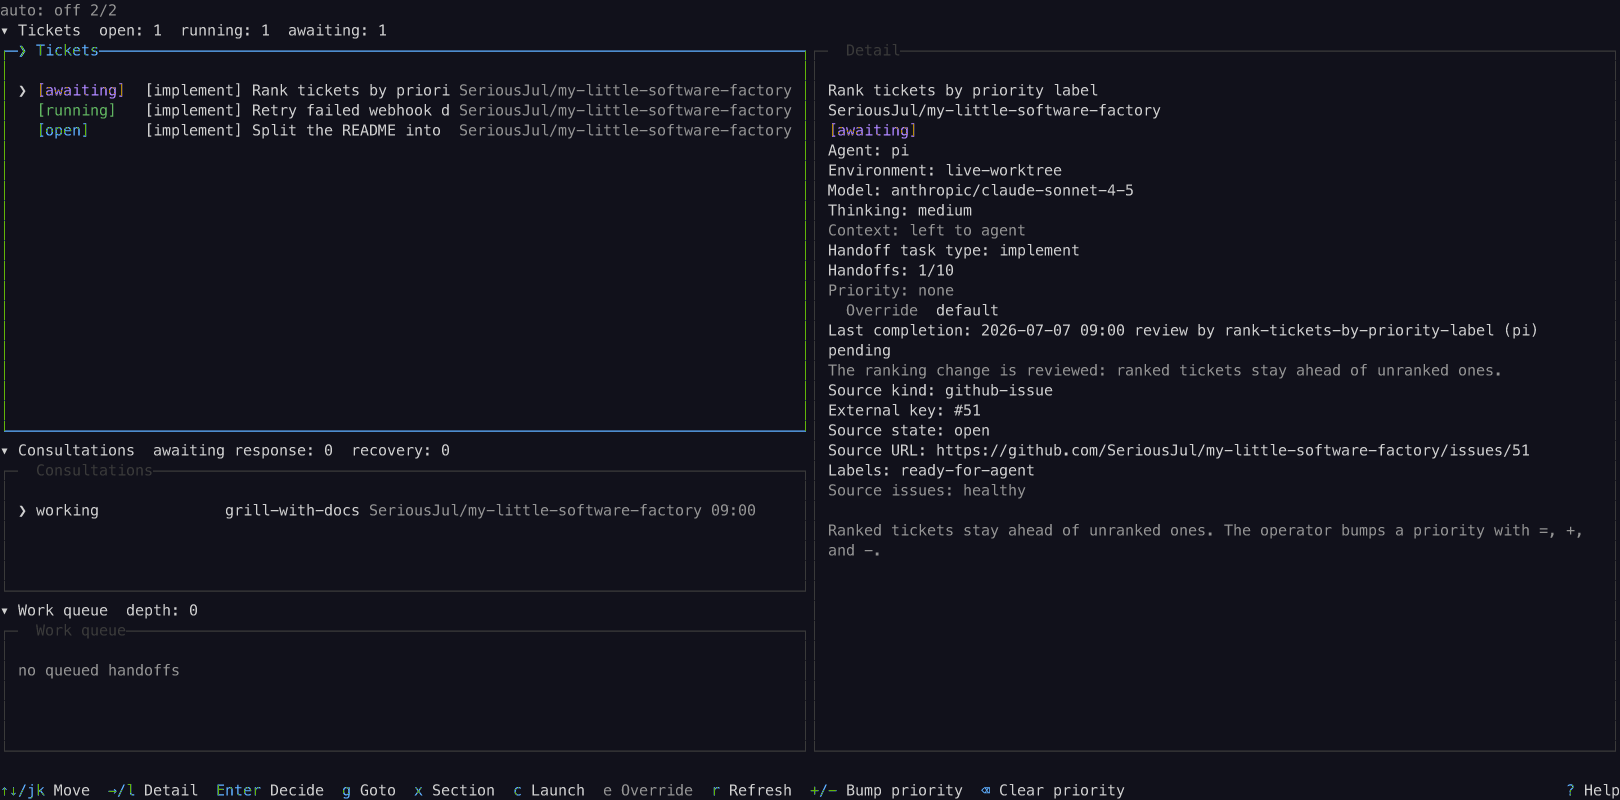
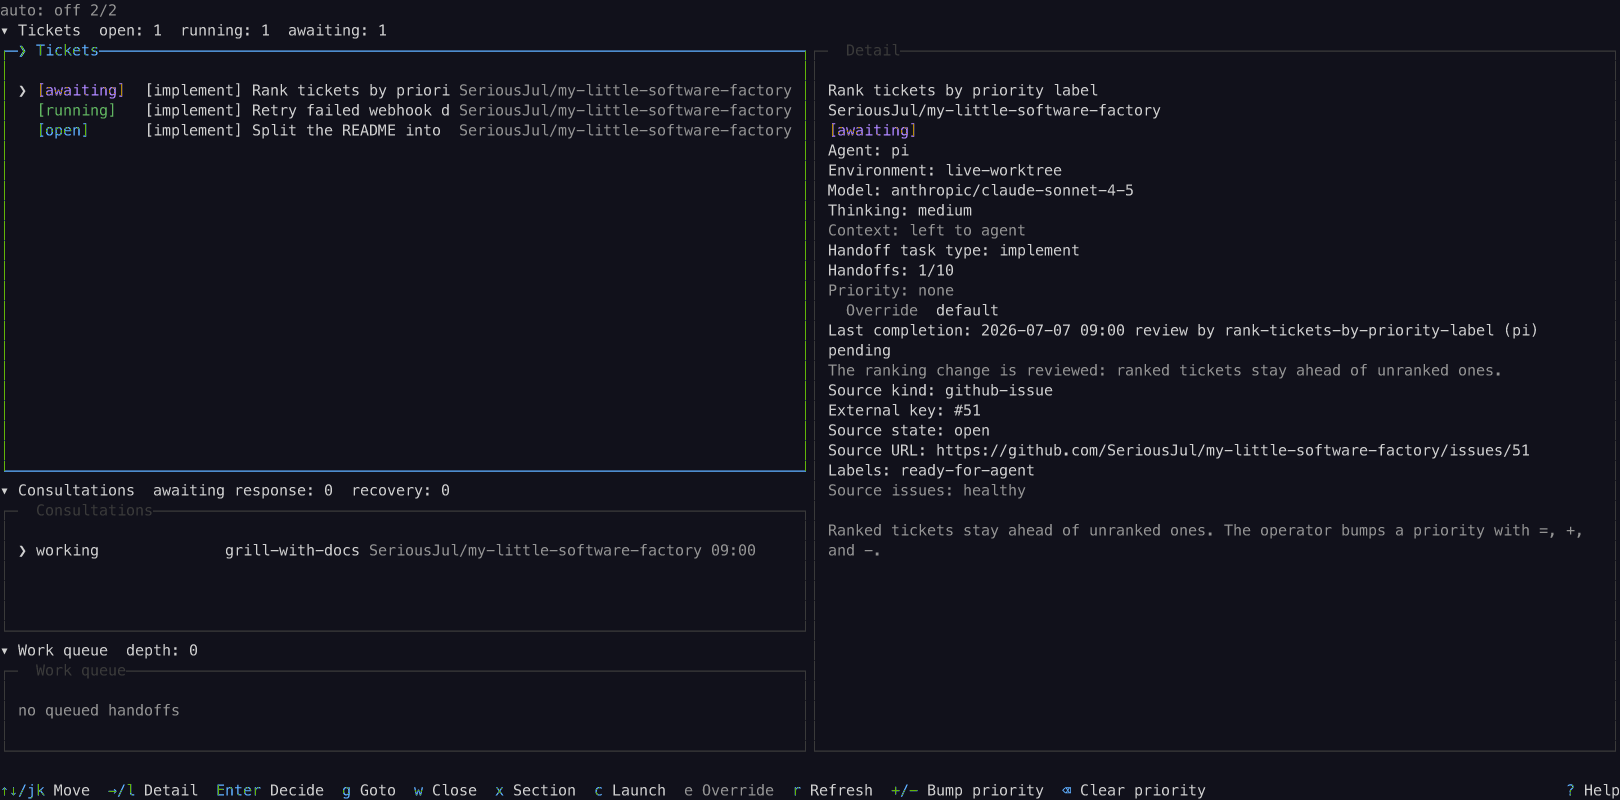
Document the Work queue's rows, keys, and controls, and recapture the guide frames
Review fixes for PR #116, on the plane's own documents.

- docs/operation/main-view.md: the row plan as the code now runs it (the
  cursor's minimum, an empty section's floor, and the collapse that keeps a
  header), the crossing that steps over a closed or unpaid section, the
  queue's `u`, `d`, and `Del` keys, the queue's two modes in the Key guide's
  list, the Work queue item's facts and its damage line, and the "both
  headers" line that has named three sections since this branch.
- AGENTS.md: the Work queue's list and item detail join the surfaces the
  shared catalogue owns.
- docs/verification/shared-controls.md: the queue's catalogue dispatch, its
  captured facts and damaged row, and the two-way crossing, with the frame
  limit of that proof stated.
- ADR 0034: the pickup runs on every cycle, so an unlimited cap frees the
  queue instead of stranding it.
- CONTEXT.md: a collapsed section is stepped over, not stopped at.
- The operation screenshots recaptured on the new frame.

diff --git a/docs/operation/main-view.md b/docs/operation/main-view.md
@@ -14,10 +14,11 @@ that, and one context-dependent detail pane on the right that shows the
 detail of the item the cursor holds. One control catalogue, one Action bar,
 and one Message line answer for all three. All three sections start
 expanded; `x` or a click on a section header collapses the section under the
-cursor to its header row, and the same toggle restores it. Up and down move the cursor through the visible rows and cross the
-section boundary when the sections are adjacent. The mode the bar and the
-guide state derives from the section that holds the cursor and its focused
-pane.
+cursor to its header row, and the same toggle restores it. Up and down move
+the cursor through the visible rows and cross to the next section the terminal
+shows, so a collapsed section in between does not stop the walk. The mode the
+bar and the guide state derives from the section that holds the cursor and its
+focused pane.
 
 The Ticket header always shows the pipeline counts - open, running, and
 awaiting - with the held count appended only when it is non-zero. The
@@ -34,12 +35,12 @@ line when the operator presses it anyway.
 The in-app Key guide lists the controls of the modes the app dispatches from
 its catalogue. Press `?` or `F1` to open it from anywhere, including the
 panes and the modals. It carries the Ticket list, the Ticket detail, the
-Consultation list, the Consultation detail, the Agent terminal, the response
-editor, the override panel in both of its row kinds, the decision modal, the
-missing modal, the guide and the Message view, the controls that are only
-reachable from another mode, Quit, and the `Ctrl+C` emergency exit, each with
-what it does and, where the app will not run it, why. Press `Esc`, `F1`, or
-`?` to close it.
+Consultation list, the Consultation detail, the Work queue list, the Work
+queue item detail, the Agent terminal, the response editor, the override panel
+in both of its row kinds, the decision modal, the missing modal, the guide and
+the Message view, the controls that are only reachable from another mode,
+Quit, and the `Ctrl+C` emergency exit, each with what it does and, where the
+app will not run it, why. Press `Esc`, `F1`, or `?` to close it.
 
 This guide does not repeat that list. A table of keys here went stale twice:
 the guide and the Action bar are generated from one control catalogue
@@ -49,22 +50,32 @@ The Ticket list and detail move with the row, page and jump keys, focus the
 detail with `l` or `Right` and the list with `h` or `Left`, hand an open
 ticket off with `Enter`, open the decision modal on an awaiting one, the
 missing modal on a ticket whose agent is gone, and the override panel with
-`e`. `=`, `+`, and `-` bump a ticket's priority up and down through the
-configured rank, and Backspace clears it to the label rank or unranked. `a` toggles
-auto-handoff, `r` refreshes, `g` goes to the agent's pane, `w` closes the work
-cycle of the selected ticket behind a confirmation (ADR 0031), and `q` quits.
+`e`. The Work queue's list and its item detail answer the same row, page,
+jump, and focus keys. On a queue row, `u` and `d` move that item up or down
+the shared order, and `Del` takes it out of the queue: a removed Handoff item
+is cancelled, and the ticket it asked for keeps its state. `=`, `+`, and `-`
+bump a ticket's priority up and down through the configured rank, and
+Backspace clears it to the label rank or unranked. `a` toggles auto-handoff,
+`r` refreshes, `g` goes to the agent's pane, `w` closes the work cycle of the
+selected ticket behind a confirmation (ADR 0031), and `q` quits.
 
 When the Message line is truncated, press `m` in a base pane or `F2` in any
 mode to read the captured message in the Message view. The Message line and
-the Action bar reserve the two bottom rows at every terminal size, and each
-list section reserves its header row plus a minimum of three content rows:
-below the smallest useful frame (40 columns by 19 rows) the panes give way
-to a size message and a compact Help control, a section that cannot hold its
-minimum collapses rather than vanishing so both headers keep their counts, and
-a surface that cannot draw its own rows says so instead of painting them over
-its border. One hint holds the row's end cells: Help on a
-bar that can open the Key guide, and the overlay's own Close on a utility
-overlay. A frame too narrow for that hint states one of its whole keys, so the
+the Action bar reserve the two bottom rows at every terminal size. Each list
+section reserves its header row at every size, and its box reserves three
+content rows while the terminal can pay for them; a section that holds no rows
+reserves one content row instead. When the body cannot pay the claims, the
+sections below the cursor give up their rows in turn, from the bottom of the
+column up, and a section that cannot hold even its one content row collapses
+to its header rather than vanishing, so all three headers keep their counts.
+The section under the cursor never gives way: it holds its three content rows,
+and a click on a collapsed header moves the cursor there, which brings its box
+back and hands the rows another section gives up. Below the smallest useful
+frame (40 columns by 19 rows) the panes give way to a size message and a
+compact Help control, and a surface that cannot draw its own rows says so
+instead of painting them over its border. One hint holds the row's end cells:
+Help on a bar that can open the Key guide, and the overlay's own Close on a
+utility overlay. A frame too narrow for that hint states one of its whole keys, so the
 way out of a screen is named at any width and never cut in half.
 
 The keys the override panel answers with live on the
@@ -87,9 +98,10 @@ run: the mode line (while the control plane has state to observe), the
 Ticket header across the full terminal width, the three sections' list panes
 stacked on the left with the Consultation and Work headers between them, the
 detail pane on the right, the Message line, and the Action bar. The focused
-section takes the remaining rows after the other sections claim their
-minimum of three content rows, so the list the operator works in gets the
-room. The
+section takes the remaining rows after the other sections claim their minimum
+of three content rows - one content row while their list is empty - so the
+list the operator works in gets the room, and a section the body cannot pay
+for at all shows its header alone. The
 Ticket header always shows the pipeline counts - open, running, and awaiting,
 in the labelled form on a terminal of at least 60 columns and the short form
 below - and appends the held count with its bell marker only when it is
@@ -97,10 +109,10 @@ non-zero. The Consultation header carries that section's attention facts, its
 awaiting-response and recovery counts, the bell marker while the bell rings,
 and "new output" while that fact holds, so a Consultation that needs
 the operator is visible whether the section is expanded or collapsed and no
-free-standing attention line exists. A section that cannot hold its minimum collapses rather than
-vanishing, so all three headers keep their counts; below the smallest useful
-frame
-the compact frame drops the panes with a size message.
+free-standing attention line exists. A section that cannot hold its minimum
+collapses rather than vanishing, so all three headers keep their counts; below
+the smallest useful frame the compact frame drops the panes with a size
+message.
 
 Two panes side by side, flex-sized to the terminal.
 The list pane on the left shows the tickets of the Ticket section with their
@@ -127,18 +139,30 @@ the ticket's handoff count against its per-ticket limit, counting the
 handoffs of every work cycle the ticket ran, and, when one exists, the last
 completion: its date, the task type, the agent, and the recorded decision.
 Factory ticket state and external source state stay separate.
+The Work queue's rows carry the origin the pickup re-checks and the ticket the
+item asks for; its detail carries the ticket, that origin, the time the item
+entered the queue in UTC, and the choice the operator made at the handoff -
+the agent, environment, task type, model, thinking level, and context window -
+with a setting left to the agent saying so in the same words the override
+panel uses. A row the store damaged keeps its place and states its damage in
+place of the choice it cannot read, and the observation cycle refuses to start
+it with that reason. An empty queue states that fact on its one line.
 The panes share one focus.
 Switching focus never moves the selection.
 
 The vertical keys act on the focused pane.
 With the list focused, they move the selection and cross the section boundary
-when the sections are adjacent: from the last row of the Ticket list the next
-down lands on the Consultation list, from its last row the next down lands on
-the Work queue list, and a step back up from either first row lands on the
-section above. Page keys move by one visible
+to the next section the terminal shows: from the last row of the Ticket list
+the next down lands on the Consultation list, from its last row the next down
+lands on the Work queue list, and a step back up from either first row lands
+on the section above. A section the operator collapsed, or that the body could
+not pay for, is stepped over rather than stopped at, so the cursor reaches
+every section the frame holds. Page keys move by one visible
 list page, and Home and End select the list edges. With the detail focused,
 the row keys move at the configured speed, PageUp and PageDown retain one row
-of context, and Home and End move to the detail edges. A new selection starts
+of context, and Home and End move to the detail edges. Every base detail, the
+Work queue item's facts included, owns that scroll, so a long ticket identity
+that wraps past the pane stays readable. A new selection starts
 the detail at the top.
 
 The detail is a native OpenTUI viewport. Its complete content stays mounted,

diff --git a/docs/verification/shared-controls.md b/docs/verification/shared-controls.md
@@ -49,6 +49,9 @@ Every check below runs in `bun test`, which is `bun run lint`,
 | Goto in the Ticket base modes (`g`) focuses the agent's pane on an in-flight ticket while the pane is alive in the last poll, on an `awaiting` ticket while the handoff recorded a pane, and states the Consultation's own refusal otherwise; it never moves the ticket's state, and the Decision modal's and Live view's Goto rows moved none | `test/controls.test.ts`, `test/live-view.test.ts`, `test/auto-mode.test.ts`, `test/domain.test.ts`, `test/state.test.ts` | Passed |
 | Close in the Ticket base modes (`w`) ends the selected ticket's work cycle behind the shared confirmation panel: it refuses an `open` ticket with its reason, opens the dialog with the body its own handoff's environment states on an in-flight or `awaiting` one, leaves everything unchanged on Cancel, ends an in-flight cycle with no completion trace, records the `closed` decision on an `awaiting` one, stops the agent through the Close cleanup, and records the leftover herdr refuses | `test/controls.test.ts`, `test/ticket-close.test.ts`, `test/domain.test.ts`, `test/state.test.ts`, `test/handoff-dispatch.test.ts`, `test/auto-mode.test.ts` | Passed |
 | The confirmation panel dispatches the Ticket close's rows through the catalogue, and the gallery holds the dialog's states | `test/action-bar.test.ts`, `test/key-guide.test.ts`, `test/shared-gallery.test.ts` | Passed |
+| The Work queue's list and its item detail dispatch from the catalogue: the row keys, `u` and `d` reorder and `Del` removal of the item under the cursor in both of the queue's modes, each with its stated refusal (no item selected, the item already first or last), and the detail's scroll answers where the facts overflow the pane | `test/work-queue-frame.test.ts`, `test/shared-control-architecture.test.ts`, `test/key-guide.test.ts`, `test/action-bar.test.ts` | Passed |
+| The queue's detail states the captured facts - the ticket, the origin, and the choice with its settings left to the agent - and a stored row the reader cannot name stays in view with its damage in place of a repaired start; the gallery holds both states and the empty queue | `test/work-queue-frame.test.ts`, `test/work-queue.test.ts`, `test/shared-gallery.test.ts` | Passed |
+| The cursor crosses to and from the Work queue over a section the operator collapsed or the terminal cannot pay for, in both directions, and the Action bar's Move hint agrees with the key | `test/work-queue-frame.test.ts`, `test/main-view-frame.test.ts` | Passed by the automated suite. The frame is what the checks read: no screen-reader path was measured for the queue, and the terminal walks above have not been re-run for it. |
 | Agent interaction mode exposes its configured exit control, preserves emergency exit, and forwards unclaimed input | `test/consultation-frame.test.ts` | Passed |
 | The Consultation confirmation panel uses shared action selection and dispatch | `test/action-panel.test.ts`, `test/consultation-frame.test.ts` | Passed |
 | The standalone theme's text and indicator pairs clear the measured contrast (the only contrast-checked theme; an inherited herdr theme is not contrast-checked, ADR 0024) | `test/shared-presentation.test.ts` | Passed |

diff --git a/CONTEXT.md b/CONTEXT.md
@@ -19,7 +19,7 @@ The always-present base surface of the control plane. It holds three list sectio
 _Avoid_: dashboard, home, screen, primary view
 
 **Section**:
-An independently collapsable list in the Main view. The Ticket section holds the ticket list, the Consultation section holds the Consultation list, and the Work section holds the Work queue. All three can be expanded at the same time. A collapsed section shrinks to its header row and its rows are skipped by navigation.
+An independently collapsable list in the Main view. The Ticket section holds the ticket list, the Consultation section holds the Consultation list, and the Work section holds the Work queue. All three can be expanded at the same time. A collapsed section shrinks to its header row, and the cursor's step crosses over it to the next section the terminal shows.
 _Avoid_: tab, pane, view, accordion
 
 **Section header**:

diff --git a/docs/adr/0034-the-parallel-limit-counts-consultations-and-the-work-queue-holds-the-rest.md b/docs/adr/0034-the-parallel-limit-counts-consultations-and-the-work-queue-holds-the-rest.md
@@ -38,7 +38,10 @@ the manual Handoff intents (ticket, origin, the operator's choice) and the
 Consultations in `queued` state, one shared order across both kinds. When a
 seat frees, the observation cycle - the single owner of "what may start
 now" - starts the queue before auto-dispatch, up to the free seats, and only
-then lets auto-dispatch fill what remains. The operator reorders the items,
+then lets auto-dispatch fill what remains. The pickup runs on every cycle,
+including the cycle whose cap reads 0: an unlimited cap holds a free seat for
+every waiting start, so an operator who lifts the cap while items wait frees
+them, and the queue never strands at a cap that no longer exists. The operator reorders the items,
 removes an item, and force-dispatches an item over the cap. Force-dispatch
 re-runs every start check the normal pickup runs and skips only the cap.
 

diff --git a/AGENTS.md b/AGENTS.md
@@ -26,8 +26,9 @@
   examples are exercised by the suite, so a preview cannot drift from a control.
 - Every control the control plane owns dispatches from the shared Control
   catalogue: the fields, selectors, searches, form actions, and form focus
-  routes, and the Consultation view's list and detail, the Agent interaction
-  mode, and the Consultation confirmation panel. Build missing behavior at the
+  routes, the Consultation view's list and detail, the Work queue's list and
+  item detail, the Agent interaction mode, and the Consultation confirmation
+  panel. Build missing behavior at the
   shared module interface, never as another local implementation, and read the
   open items and the unverified acceptance targets in
   [the verification record](docs/verification/shared-controls.md): the
